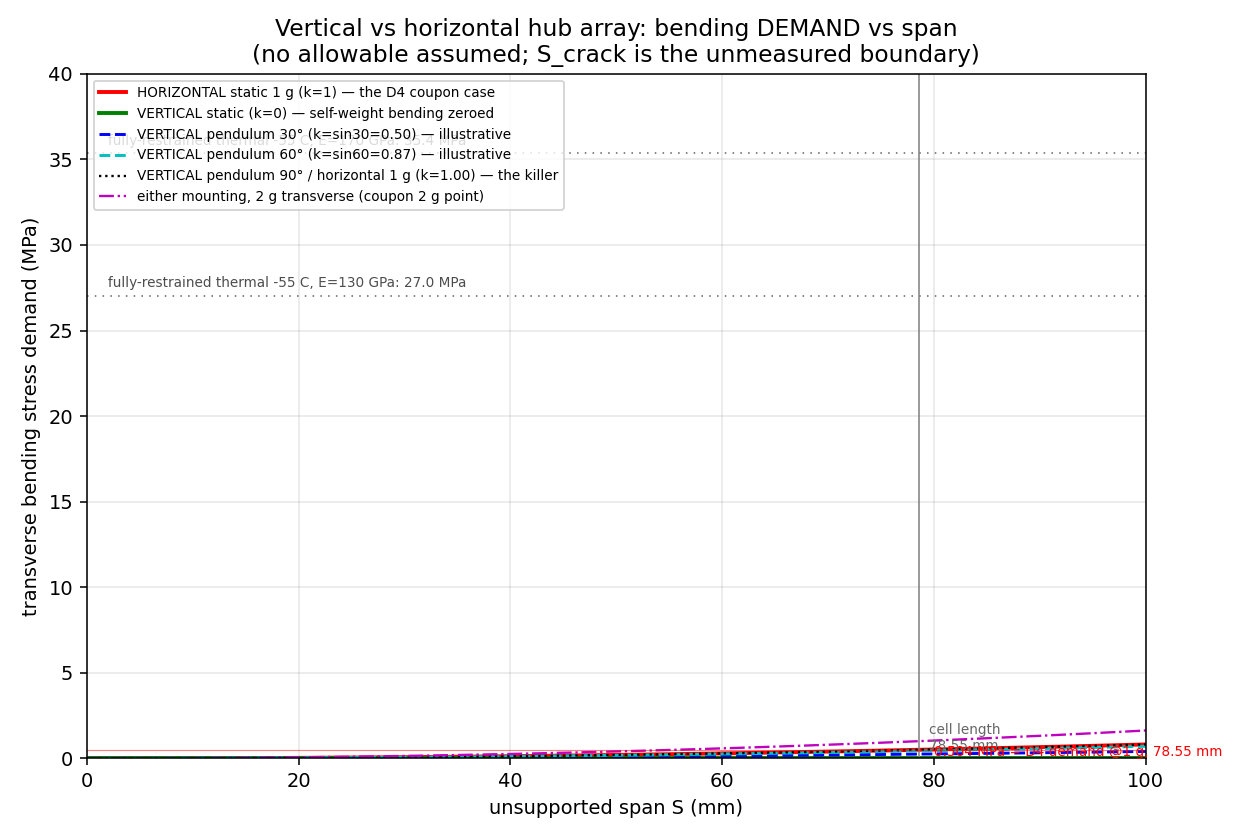
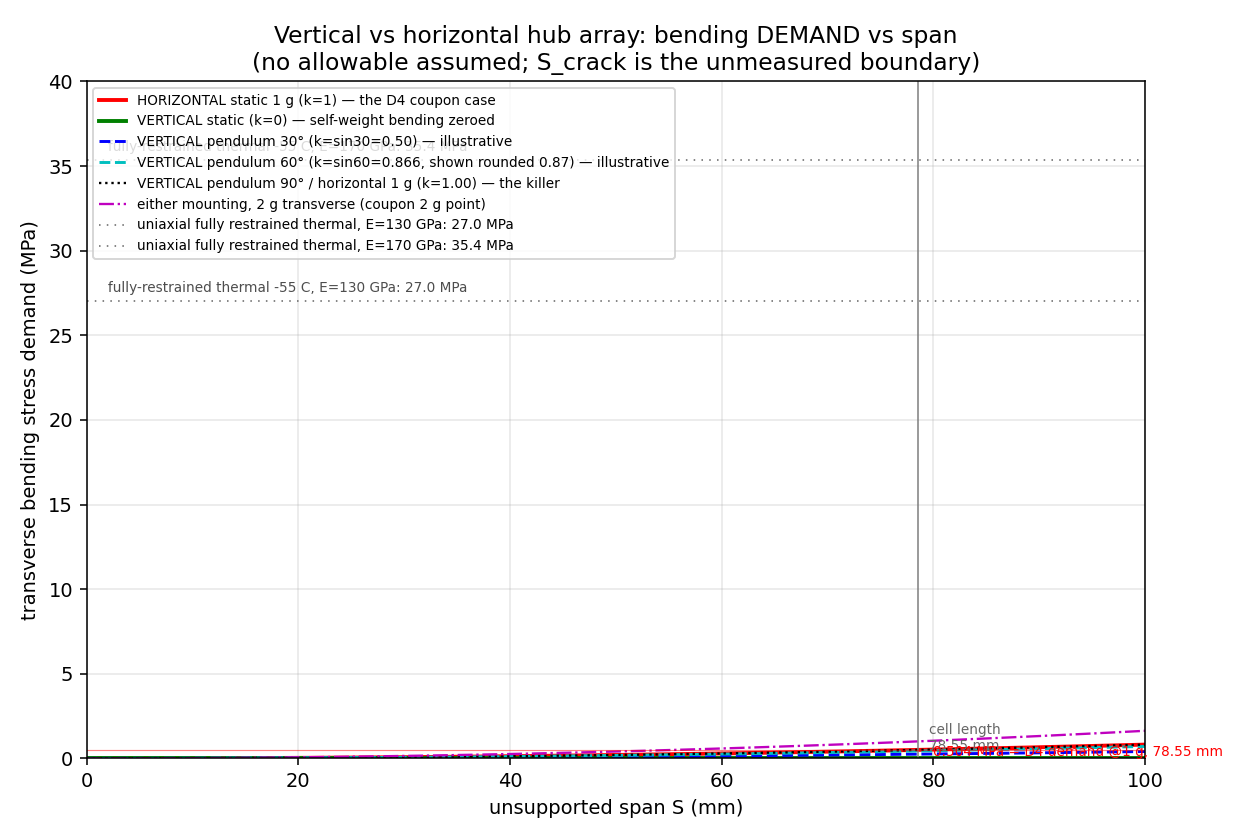
docs(adr066): apply cross-family consultant qualification changes
- Record attempt-6 gpt-6-astra CHANGES_REQUESTED evidence.
- Clarify model assumptions, thermal bounds, and illustrative 2 g case.
- Add supported-assembly analysis/test riders and no-margin language.

diff --git a/docs/analysis/vertical_hub_load_cases.py b/docs/analysis/vertical_hub_load_cases.py
@@ -36,6 +36,7 @@ G = 9.80665            # m/s^2  (physical constant; hub_array_overhang_model.py 
 RHO_SI = 2330.0        # kg/m^3 crystalline Si (physical constant; same, L20)
 E_SI_LOW, E_SI_HIGH = 130e9, 170e9   # Pa, literature range, TODO(unverified)
 CTE_SI = 2.6e-6        # 1/K, literature value, TODO(unverified)
+NU_SI = 0.28           # Poisson ratio, literature value, TODO(unverified)
 T_CELL = 0.21e-3       # m      operator caliper (same, L22)
 L_CELL = 78.55e-3      # m      LARGE cell long side (ADR-049 measured inputs)
 DT_COLD = -80.0        # K      +25 C assembly -> -55 C cold soak (assumed ref, TODO)
@@ -136,18 +137,27 @@ def render_figure() -> None:
     ax.plot(spans_mm, series(math.sin(math.radians(30))), "b--", lw=1.5,
             label="VERTICAL pendulum 30° (k=sin30=0.50) — illustrative")
     ax.plot(spans_mm, series(math.sin(math.radians(60))), "c--", lw=1.5,
-            label="VERTICAL pendulum 60° (k=sin60=0.87) — illustrative")
+            label="VERTICAL pendulum 60° (k=sin60=0.866, shown rounded 0.87) — illustrative")
     ax.plot(spans_mm, series(1.0), "k:", lw=1.2,
             label="VERTICAL pendulum 90° / horizontal 1 g (k=1.00) — the killer")
     ax.plot(spans_mm, series(2.0), "m-.", lw=1.2,
-            label="either mounting, 2 g transverse (coupon 2 g point)")
+            label="either mounting, 2 g transverse — ILLUSTRATIVE, not a validated envelope")
 
     # thermal band (orientation-independent), shown as horizontal lines
     for E, lbl in ((E_SI_LOW, "130"), (E_SI_HIGH, "170")):
         sig = abs(E * CTE_SI * DT_COLD) / 1e6
-        ax.axhline(sig, color="0.4", lw=0.8, ls=(0, (1, 4)))
+        ax.axhline(sig, color="0.4", lw=0.8, ls=(0, (1, 4)),
+                   label=f"uniaxial fully restrained thermal, E={lbl} GPa: {sig:.1f} MPa")
         ax.text(2, sig + 0.5, f"fully-restrained thermal -55 C, E={lbl} GPa: {sig:.1f} MPa",
                 fontsize=7, color="0.3")
+    # equal-biaxial plane-stress thermal estimate E*alpha*|dT|/(1-nu)
+    # (consultant challenge 2026-10-09 item 3): ~37.6 MPa for E=130 GPa, nu=0.28
+    sig_bi = abs(E_SI_LOW * CTE_SI * DT_COLD) / (1.0 - NU_SI) / 1e6
+    ax.axhline(sig_bi, color="0.55", lw=0.8, ls=(0, (4, 2)),
+               label=f"equal-biaxial plane-stress thermal, E=130 GPa, nu={NU_SI}: {sig_bi:.1f} MPa")
+    ax.text(2, sig_bi + 0.5,
+            f"equal-biaxial E*a*|dT|/(1-nu), nu={NU_SI}, E=130 GPa: {sig_bi:.1f} MPa",
+            fontsize=7, color="0.3")
 
     ax.axvline(L_CELL * 1e3, color="0.5", lw=0.8)
     ax.text(L_CELL * 1e3 + 1, 0.5, "cell length\n78.55 mm", fontsize=7, color="0.4")

diff --git a/docs/analysis/assets/adr066-consult-answer.md b/docs/analysis/assets/adr066-consult-answer.md
@@ -1,0 +1,157 @@
+## 1. Arithmetic check
+
+### 1 g calibration
+
+The stated 0.504 MPa is internally consistent with a simply supported, uniformly loaded silicon strip:
+
+\[
+\sigma_{\max}=\frac{3\rho g L^2}{4t}
+\]
+
+Using \(\rho \approx 2330\ \mathrm{kg/m^3}\), \(g=9.81\ \mathrm{m/s^2}\), \(L=0.07855\ \mathrm m\), and \(t=0.00021\ \mathrm m\):
+
+\[
+\sigma_{\max}\approx 0.504\ \mathrm{MPa}
+\]
+
+More precisely, it is about 0.503–0.504 MPa depending on the values of \(g\) and silicon density. Thus the calibration is numerically sound, but it is not a measurement-independent material constant: it assumes a uniform beam, simply supported boundary conditions, uniform self-weight loading, and no local support effects.
+
+If the plotted curves scale as
+
+\[
+\sigma(S,k)=0.504\,k\left(\frac{S}{78.55}\right)^2\ \mathrm{MPa},
+\]
+
+then the values at \(S=100\) mm should be approximately:
+
+- \(k=0\): \(0\)
+- \(k=0.50\): \(0.409\) MPa
+- \(k=0.866\): \(0.709\) MPa
+- \(k=1.00\): \(0.818\) MPa
+- \(2g\), \(k=2\): \(1.636\) MPa
+
+Those appear consistent with the plotted curves. The \(60^\circ\) factor should be \(0.866\), usually rounded to \(0.87\), not exactly \(0.87\). That rounding produces only a negligible plotting difference.
+
+One issue is conceptual rather than arithmetic: the figure appears to use a simply supported beam formula while discussing a continuous or near-continuous carrier. Those are not equivalent support conditions. A continuous carrier can reduce global span bending, but it can also introduce reaction moments, peel, contact-edge stresses, and local curvature that are absent from this calibration.
+
+### Thermal line
+
+\[
+E\alpha |\Delta T|
+=130\times10^9(2.6\times10^{-6})(80)
+=27.04\times10^6\ \mathrm{Pa}
+\]
+
+Therefore the labelled 27.0 MPa line is arithmetically correct to the stated precision.
+
+However, this is a uniaxial fully restrained thermal stress. For equal biaxial in-plane restraint, the plane-stress expression is approximately
+
+\[
+\sigma=\frac{E\alpha|\Delta T|}{1-\nu}.
+\]
+
+With \(\nu\approx0.28\), that would be approximately 37.6 MPa, before considering temperature-dependent properties, anisotropy, carrier CTE, adhesive compliance, or residual stress. Thus 27 MPa is not a generally valid “fully restrained” upper bound.
+
+There also appears to be a second dotted horizontal line near 35 MPa in the image. If that line is intentional, it is not clearly identified in the stated description or legend. If it is meant to represent the upper end of the 27–35 MPa estimate, it needs an explicit label and derivation. If it is not intentional, it should be removed.
+
+## 2. Engineering challenge
+
+### Continuous support is conservative only for one specific failure mode
+
+“No unsupported-span credit” is conservative for idealized global gravity-induced beam bending, because shorter spans generally reduce the \(S^2\)-dependent bending demand. But it is not automatically conservative for the actual cell/carrier assembly.
+
+Continuous support can create:
+
+- local stress concentrations at ribs, posts, adhesive edges, or hard points;
+- imposed curvature from carrier flatness errors;
+- differential thermal expansion stress;
+- peel and shear at bonded interfaces;
+- support-induced tensile stress at the silicon surface;
+- residual stress from cure, assembly, or launch preload;
+- damage from point or line contacts.
+
+The figure does not model those effects. Calling continuous support “conservative” without qualification overstates the conclusion. The defensible wording is: **no span credit is conservative for the idealized global transverse bending calculation, but it is not a demonstrated conservative bound for the supported assembly.**
+
+The weakest hidden assumption is the use of a simple-span gravity formula as the baseline for a continuously supported structure. A cantilever-like local condition, a support-edge load, or a warped carrier could generate substantially larger local stress than the plotted curve even with a nominally zero unsupported span.
+
+### Thermal restraint is not a reliable universal upper bound
+
+The fully restrained thermal calculation is useful as a bounding case, but it is not necessarily the relevant or maximum stress in the assembly:
+
+- If the carrier has a CTE near silicon, thermal mismatch may be much smaller.
+- If the carrier has a substantially different CTE, mismatch stress may be significant.
+- Adhesive compliance, sliding, cracking, and viscoelastic relaxation can reduce transmitted stress.
+- Local bonding constraints can produce stress concentrations higher than the nominal uniform value.
+- Biaxial restraint can exceed the plotted 27 MPa value.
+- Residual assembly stress can add to or subtract from the cold-soak stress.
+- Silicon’s fracture response is governed by local tensile principal stress and flaws, not by a nominal uniform membrane value alone.
+
+Consequently, the 27 MPa line should not be described as the thermal maximum. It is a particular uniaxial, uniform, fully restrained estimate.
+
+### 2 g transverse is not an adequate general dynamic envelope
+
+Not promoting an unmeasured 10 g value to a requirement is correct. However, the converse risk is treating the 2 g transverse point as a meaningful envelope merely because it is the largest plotted mechanical case.
+
+A 2 g static-equivalent case does not cover:
+
+- shock or handling events;
+- launch or balloon-transit vibration;
+- resonance amplification;
+- narrow-band dynamic response;
+- hub rotation or pendulum motion;
+- local acceleration amplification at the cell;
+- transient loads from line motion or deployment;
+- random vibration fatigue;
+- combined thermal and mechanical loading.
+
+The figure may show 2 g as an illustrative case, but it must not imply that 2 g is sufficient qualification coverage. A dynamic amplification factor, measured modal response, or specified environmental spectrum is still needed.
+
+### Orientation factors are mathematically correct but physically incomplete
+
+The factors
+
+\[
+\sin 30^\circ=0.500,\quad
+\sin 60^\circ=0.866,\quad
+\sin 90^\circ=1.000
+\]
+
+are correct. The problem is not the trigonometry; it is whether the actual acceleration direction can be represented by a single scalar transverse component. A rotating hub, flexible balloon line, or dynamic event can produce acceleration components in multiple axes. The \(k=1\) case is a reasonable no-orientation-credit baseline, but the \(k=0\) vertical case should not be interpreted as demonstrating zero stress in a real assembly.
+
+### No allowable or measured strength is established
+
+The title correctly says no allowable is assumed. That is important, because neither the 27 MPa thermal line nor the sub-MPa gravity curves demonstrates margin against cracking.
+
+Nothing in the supplied information demonstrates that any of the following has been measured:
+
+- silicon fracture strength for the actual cell population;
+- strength after bonding to the carrier;
+- cold-soak strength;
+- thermal-cycle degradation;
+- vibration-induced crack initiation;
+- support-edge stress concentration;
+- residual stress;
+- actual 2 g response;
+- actual 10 g response.
+
+The “D4 coupon case” may be a measured test result, but the figure alone does not establish what was measured, how the boundary conditions were configured, or whether the 0.504 MPa number is measured or calculated. That distinction should be explicit.
+
+## 3. Values and statements I would change
+
+1. **Keep 0.504 MPa**, but label it as the result of a simply supported uniform-beam model, not as an unrestricted calibration fact. State the density, gravity, thickness, and boundary conditions.
+
+2. **Keep the \(k\) values**, but use \(0.866\) for \(60^\circ\) in the calculation and identify 0.87 as rounded.
+
+3. **Keep 27.0 MPa only as a uniaxial thermal estimate.** Add a separate biaxial value, approximately 37.6 MPa for \(\nu=0.28\), or explicitly state why biaxial restraint is excluded.
+
+4. **Remove or label the apparent ~35 MPa dotted line.** An unexplained second thermal line undermines the figure.
+
+5. Change “continuous support is conservative” to **“no global unsupported-span credit is conservative for the idealized beam-bending calculation; local support and thermal stresses remain unbounded by this plot.”**
+
+6. Mark the 2 g curve as **illustrative only**, and add a clear statement that it is not a validated environmental envelope or qualification requirement.
+
+7. Add a separate analysis or test requirement for local support stresses, carrier flatness, adhesive stiffness, thermal mismatch, modal response, and vibration/shock.
+
+8. Do not imply that the plotted curves establish margin. Until the S-crack, cold-soak, and vibration evidence exists, the baseline is a conservative screening assumption, not a demonstrated design allowability.
+
+VERDICT: CHANGES_REQUESTED

diff --git a/docs/analysis/vertical-hub-load-cases.md b/docs/analysis/vertical-hub-load-cases.md
@@ -4,7 +4,7 @@
 
 ## Scope and inputs
 
-This compares an end-supported bare silicon cell in a horizontal panel with the same cell in a vertical panel. The cell is **78.55 x 38.90 x 0.21 mm**, the geometry recorded in ADR-063 §D4 and ADR-049. ADR-063 §D4 gives the measured/derived calibration **0.504 MPa at 1 g over 78.55 mm** and **1.007 MPa at 2 g**, for the simply-supported, end-only case. It explicitly says the allowable/flexural strength is not known and `S_crack` must be measured.
+This compares an end-supported bare silicon cell in a horizontal panel with the same cell in a vertical panel. The cell is **78.55 x 38.90 x 0.21 mm**, the geometry recorded in ADR-063 §D4 and ADR-049. ADR-063 §D4 gives the **model-derived** calibration **0.504 MPa at 1 g over 78.55 mm** and **1.007 MPa at 2 g**: these are the results of a **simply supported, uniformly loaded, end-only beam model** (`sigma = 3 rho g L^2/(4 t)` with `rho = 2330 kg/m^3` silicon density, `g = 9.80665 m/s^2`, `t = 0.21 mm` thickness, simply supported boundary conditions, uniform self-weight loading) — they are **not measured material constants**. ADR-063 §D4 explicitly says the allowable/flexural strength is not known and `S_crack` must be measured.
 
 For calculations below, the existing in-repo model is used: `sigma = 3 rho g S^2/(4 t)`, with `rho = 2330 kg/m^3`, `t = 0.21 mm`, and `g = 9.80665 m/s^2` (`docs/analysis/hub_array_overhang_model.py`, lines 18–27 and 103–107). The model's 170 GPa Si modulus is only an in-repo standard value (`docs/analysis/hub-thickness-deflection.md` §3). The wider **130–170 GPa** range quoted in the task brief corresponds to standard single-crystal silicon values found in public engineering references (e.g. MatWeb's "Silicon" datasheet, Ioffe Institute NSM archive); **no URL is asserted here because none was fetched in this session — treat the range as `TODO(unverified)` until a datasheet is actually retrieved.** The CTE used here is **2.6e-6/K**, the standard room-temperature value for silicon (Ioffe NSM "Silicon - thermal expansion", `TODO(unverified)` — not fetched this session). If those references cannot be produced at design freeze, the material properties remain TODO(unverified), not design allowables.
 
@@ -76,7 +76,7 @@ If contraction is fully restrained in one in-plane direction, the uniaxial elast
 
 `|sigma_th| = E alpha |ΔT| = 27.0 MPa (E=130 GPa) to 35.4 MPa (E=170 GPa)`.
 
-That stress is **orientation-independent**. It is not a bending stress from the cell's self-weight and is zero for an ideal freely contracting cell; the actual value depends on solder lands, frame compliance, temperature gradient, and restraint. Those constraints are not characterized. **Failure mode:** thermal tensile/shear stress at silicon ends, solder joints, or defects; it can govern even when vertical static bending is zero.
+That stress is **orientation-independent**. It is a **uniaxial, uniform, fully restrained estimate**, not a universal thermal upper bound: it is zero for an ideal freely contracting cell and the actual value depends on solder lands, frame/carrier CTE, adhesive compliance, temperature gradient, and restraint. For equal biaxial in-plane restraint under plane stress, the corresponding estimate is `E alpha |ΔT|/(1−ν)`; with `ν = 0.28` and `E = 130 GPa`, this is approximately **37.6 MPa**. These constraints are not characterized. **Failure mode:** thermal tensile/shear stress at silicon ends, solder joints, or defects; it can govern even when vertical static bending is zero.
 
 ## 5. Vibration / buffet
 
@@ -96,7 +96,19 @@ No citable panel vibration spectrum, acceleration PSD, gust spectrum, or qualifi
 
 ### Consultant challenge (2026-10-09)
 
-The figure was submitted to the fleet's visual consultant (Astra lane) with the instruction to **challenge** the conclusion. The attempt on 2026-10-09 returned HTTP 503 (`all candidate lanes busy or capped`), so no served model or consultant verdict exists. No `APPROVED`, `PARTIAL`, or `CHANGES_REQUESTED` result is claimed.
+The figure was submitted to the fleet's visual consultant (Astra lane) with the instruction to **challenge** the conclusion. The first five attempts on 2026-10-09 returned HTTP 503/timeouts; attempt 6 served `gpt-6-astra`. Its verdict was `CHANGES_REQUESTED`; the verbatim answer is recorded at `docs/analysis/assets/adr066-consult-answer.md` with machine output at `docs/analysis/assets/adr066-consult.json`.
+
+The challenge found the arithmetic internally consistent, but identified the following qualification changes: the 0.504 MPa point is a simply-supported uniform-beam model result, not a measured material constant; `sin(60°)=0.866` is rounded to 0.87 only for display; the 27.0 MPa line is a uniaxial fully-restrained estimate, not a universal thermal upper bound (the equal-biaxial plane-stress estimate is approximately 37.6 MPa for ν=0.28); and the 2 g curve is illustrative, not a flight qualification envelope. Most importantly, no-global-span-credit is conservative only for idealized global bending: local support/contact, adhesive, flatness, thermal mismatch, residual stress, shock and vibration remain separate unbounded risks.
+
+The figure generator now labels both uniaxial thermal lines explicitly, adds the equal-biaxial plane-stress estimate (~37.6 MPa for ν=0.28, E=130 GPa) as a separate labelled line, names the rounded 60° factor, and marks the 2 g curve as illustrative. The evidence remains a challenge, not an approval; no strength allowable or flight qualification is claimed.
+
+**Scope of the conservatism claim (item 5).** "No unsupported-span credit" is conservative **for the idealized global beam-bending calculation only**; it is **not a demonstrated conservative bound for the supported assembly**. Local support/contact stress, carrier flatness error, adhesive peel/shear, thermal mismatch, residual stress, shock and vibration remain unbounded by this plot and require their own evidence.
+
+**2 g curve is illustrative only (item 6).** The 2 g transverse case is drawn as an illustration, not a validated environmental envelope or qualification requirement: it does not cover shock/handling, launch/transit vibration, resonance amplification, narrow-band dynamic response, hub rotation or pendulum motion, local acceleration amplification, or random-vibration fatigue. A dynamic amplification factor, measured modal response, or specified environmental spectrum is still required.
+
+**Separate test requirement adopted (item 7).** The consultant requested — and this analysis now records as an open requirement — a separate analysis or test for: local support stresses (ribs, posts, adhesive edges, hard points), carrier flatness, adhesive stiffness, cell/carrier thermal mismatch, modal response, and vibration/shock. These belong with the qualification riders in `docs/analysis/conservative-hub-unfreeze-risk.md`, not with this gravity-bending plot.
+
+**No margin implied (item 8).** Nothing in the plotted curves or this document establishes margin against cracking. Until the `S_crack` coupon, cold-soak, and vibration evidence exists, the conservative baseline is a **screening assumption, not a demonstrated design allowability**. The 0.504 MPa figure is a calculated model result, not a measured strength.
 
 **Disposition:** the `S_crack` card **must still run**. Minimum alternative only if the operator first proves a bounded flight envelope: (1) instrumented pendulum test measuring `theta_max` and acceleration vector, (2) cold-soaked end-supported real-cell test at -55 °C with that measured transverse g envelope, and (3) inspection for cracks/joint damage. This is not the full unbounded D4 coupon, but it still requires real-cell testing. Given current unknowns, do not relax the card.
 

diff --git a/docs/analysis/conservative-hub-unfreeze-risk.md b/docs/analysis/conservative-hub-unfreeze-risk.md
@@ -10,7 +10,8 @@ The operator chose a conservative baseline rather than further optimization: pro
 
 | Risk | Evidence / uncertainty | Conservative control | Residual status |
 |---|---|---|---|
-| Silicon cracks across an unsupported span | No flexural strength or modulus of rupture is in-repo; ADR-063 calibrates 0.504 MPa at 1 g over 78.55 mm | Continuous/near-continuous carrier; no pitch credit; inspect before/after handling | **Open until coupon** |
+| Silicon cracks across an unsupported span | No flexural strength or modulus of rupture is in-repo; ADR-063 calibrates 0.504 MPa at 1 g over 78.55 mm (model result, simply-supported beam) | Continuous/near-continuous carrier; no pitch credit; inspect before/after handling | **Open until coupon** |
+| Local support/contact stress, carrier flatness, adhesive peel/shear at ribs/posts/hard points | Not modeled by the gravity-bending plot; consultant challenge 2026-10-09 item 7 | Separate local-support analysis or test before design freeze; no span-credit claim covers these modes | **Open — new requirement** |
 | Pendulum or acceleration rotates gravity transverse to a vertical panel | No measured swing angle or acceleration vector; 90° returns the full 0.504 MPa 1 g transverse demand | Do not claim an orientation factor; obtain an instrumented envelope and qualify | **Open** |
 | Thermal restraint at cold soak | −55 °C repeat is specified; 27–35 MPa is only a fully restrained estimate | Characterize restraint and cold-soak real cells; do not treat estimate as allowable | **Open** |
 | Vibration/buffet fatigue | No spectrum or PSD was found | Define a spectrum and inspect joints/cells after test | **Open** |
@@ -27,7 +28,7 @@ We accept extra carrier mass and deferred energy-per-gram optimization in exchan
 1. Real-cell end-only `S_crack` coupon at ambient and approximately −55 °C.
 2. Instrumented pendulum/acceleration vector or an approved conservative qualification envelope.
 3. Thermal restraint measurement or a compliant flexible load path.
-4. Vibration/buffet qualification input and post-test inspection.
+4. Local support/contact stress analysis or test covering ribs/posts/hard points, carrier flatness, adhesive stiffness/peel/shear, and cell/carrier thermal mismatch; modal response plus vibration/shock qualification input and post-test inspection.
 5. Replaced hub placement passing the deterministic placement and DRC gates.
 6. Schematic proof of per-group bypass paths and BOM rating/thermal checks.
 
@@ -39,4 +40,4 @@ The vertical load analysis is reproducible with:
 python3 docs/analysis/vertical_hub_load_cases.py
 ```
 
-Its conclusion is a demand statement, not a strength claim: vertical mounting conditionally reduces transverse gravity demand, but orientation alone cannot justify a larger unsupported pitch. The visual consultant lane was attempted on 2026-10-09 but returned HTTP 503 (`all candidate lanes busy or capped`); no consultant approval is claimed for the figure.
+Its conclusion is a demand statement, not a strength claim: vertical mounting conditionally reduces transverse gravity demand, but orientation alone cannot justify a larger unsupported pitch. The visual consultant challenge completed on 2026-10-09 at attempt 6 via `gpt-6-astra` (HTTP 200) and returned `CHANGES_REQUESTED`; the verbatim answer is in `docs/analysis/assets/adr066-consult-answer.md` and machine output in `docs/analysis/assets/adr066-consult.json`. The requested qualification changes are incorporated in the analysis and this risk register; no consultant approval is claimed.

diff --git a/docs/adr/066-conservative-hub-unfreeze.md b/docs/adr/066-conservative-hub-unfreeze.md
@@ -23,7 +23,7 @@ Retain ADR-063's component-driven hub concept. The retired 103 × 103 mm array-s
 
 For the interim build, each bare 0.21 mm cell is supported over its relevant span by a **continuous or near-continuous carrier**. No unsupported-span value, rib pitch, maximum overhang, or mass-optimized skeleton is frozen from an assumed silicon strength. The carrier's thickness and material are selected for practical handling and stiffness, with the default interim bias toward the more robust existing carrier construction rather than the minimum-mass construction.
 
-This is intentionally conservative: it avoids making `S_crack` an unmeasured acceptance limit for the first board/carrier build. It does not prove immunity to drops, vibration, thermal cycling, or bad handling.
+This is intentionally conservative **only for the idealized global transverse beam-bending calculation**: it avoids unsupported-span credit without claiming a demonstrated conservative bound for the supported assembly. Local support/contact stress, carrier flatness error, adhesive peel/shear, thermal mismatch, residual stress, shock and vibration remain separate risks and are not bounded by this ADR's beam model. It does not prove immunity to drops, vibration, thermal cycling, or bad handling.
 
 ### D3 — Panel redundancy remains mandatory
 
@@ -34,9 +34,9 @@ Keep the independent panel/interface topology and the hub-side per-group bypass 
 The following remain explicit gates under the conservative baseline:
 
 1. **Cell integrity:** inspect every cell and end-only joint before and after assembly, cold soak and handling.
-2. **Thermal:** characterize whether the mounting path restrains contraction. The analysis estimates 27–35 MPa only for the fully restrained idealization; it is not a material allowable and must not be used as one.
+2. **Thermal:** characterize whether the mounting path restrains contraction. The analysis estimates 27–35 MPa only for the fully restrained uniaxial idealization; equal-biaxial plane-stress restraint can be approximately 37.6 MPa for E=130 GPa and ν=0.28. These are estimates, not material allowables, and must not be used as one.
 3. **Acceleration/drop:** obtain a bounded acceleration/vector history or apply a separately approved qualification envelope. The repository's unmeasured 10 g assumption is not silently promoted to a requirement.
-4. **Vibration/buffet:** define and test a spectrum before claiming flight qualification.
+4. **Vibration/buffet and supported-assembly response:** define and test a spectrum before claiming flight qualification; separately analyze or test local support/contact stress at ribs/posts/hard points, carrier flatness, adhesive stiffness/peel/shear, cell/carrier thermal mismatch, and modal response. The 2 g transverse curve is illustrative only, not a validated environmental envelope or qualification requirement.
 5. **`S_crack` coupon:** still required before any later skeletonisation, larger unsupported pitch, or mass optimization. The coupon is no longer a blocker to beginning the conservative board implementation.
 6. **Placement and fabrication:** the re-placed board must pass ADR-030's deterministic placement gate, then schematic/ERC, DRC, routing, BOM and order gates independently.
 
